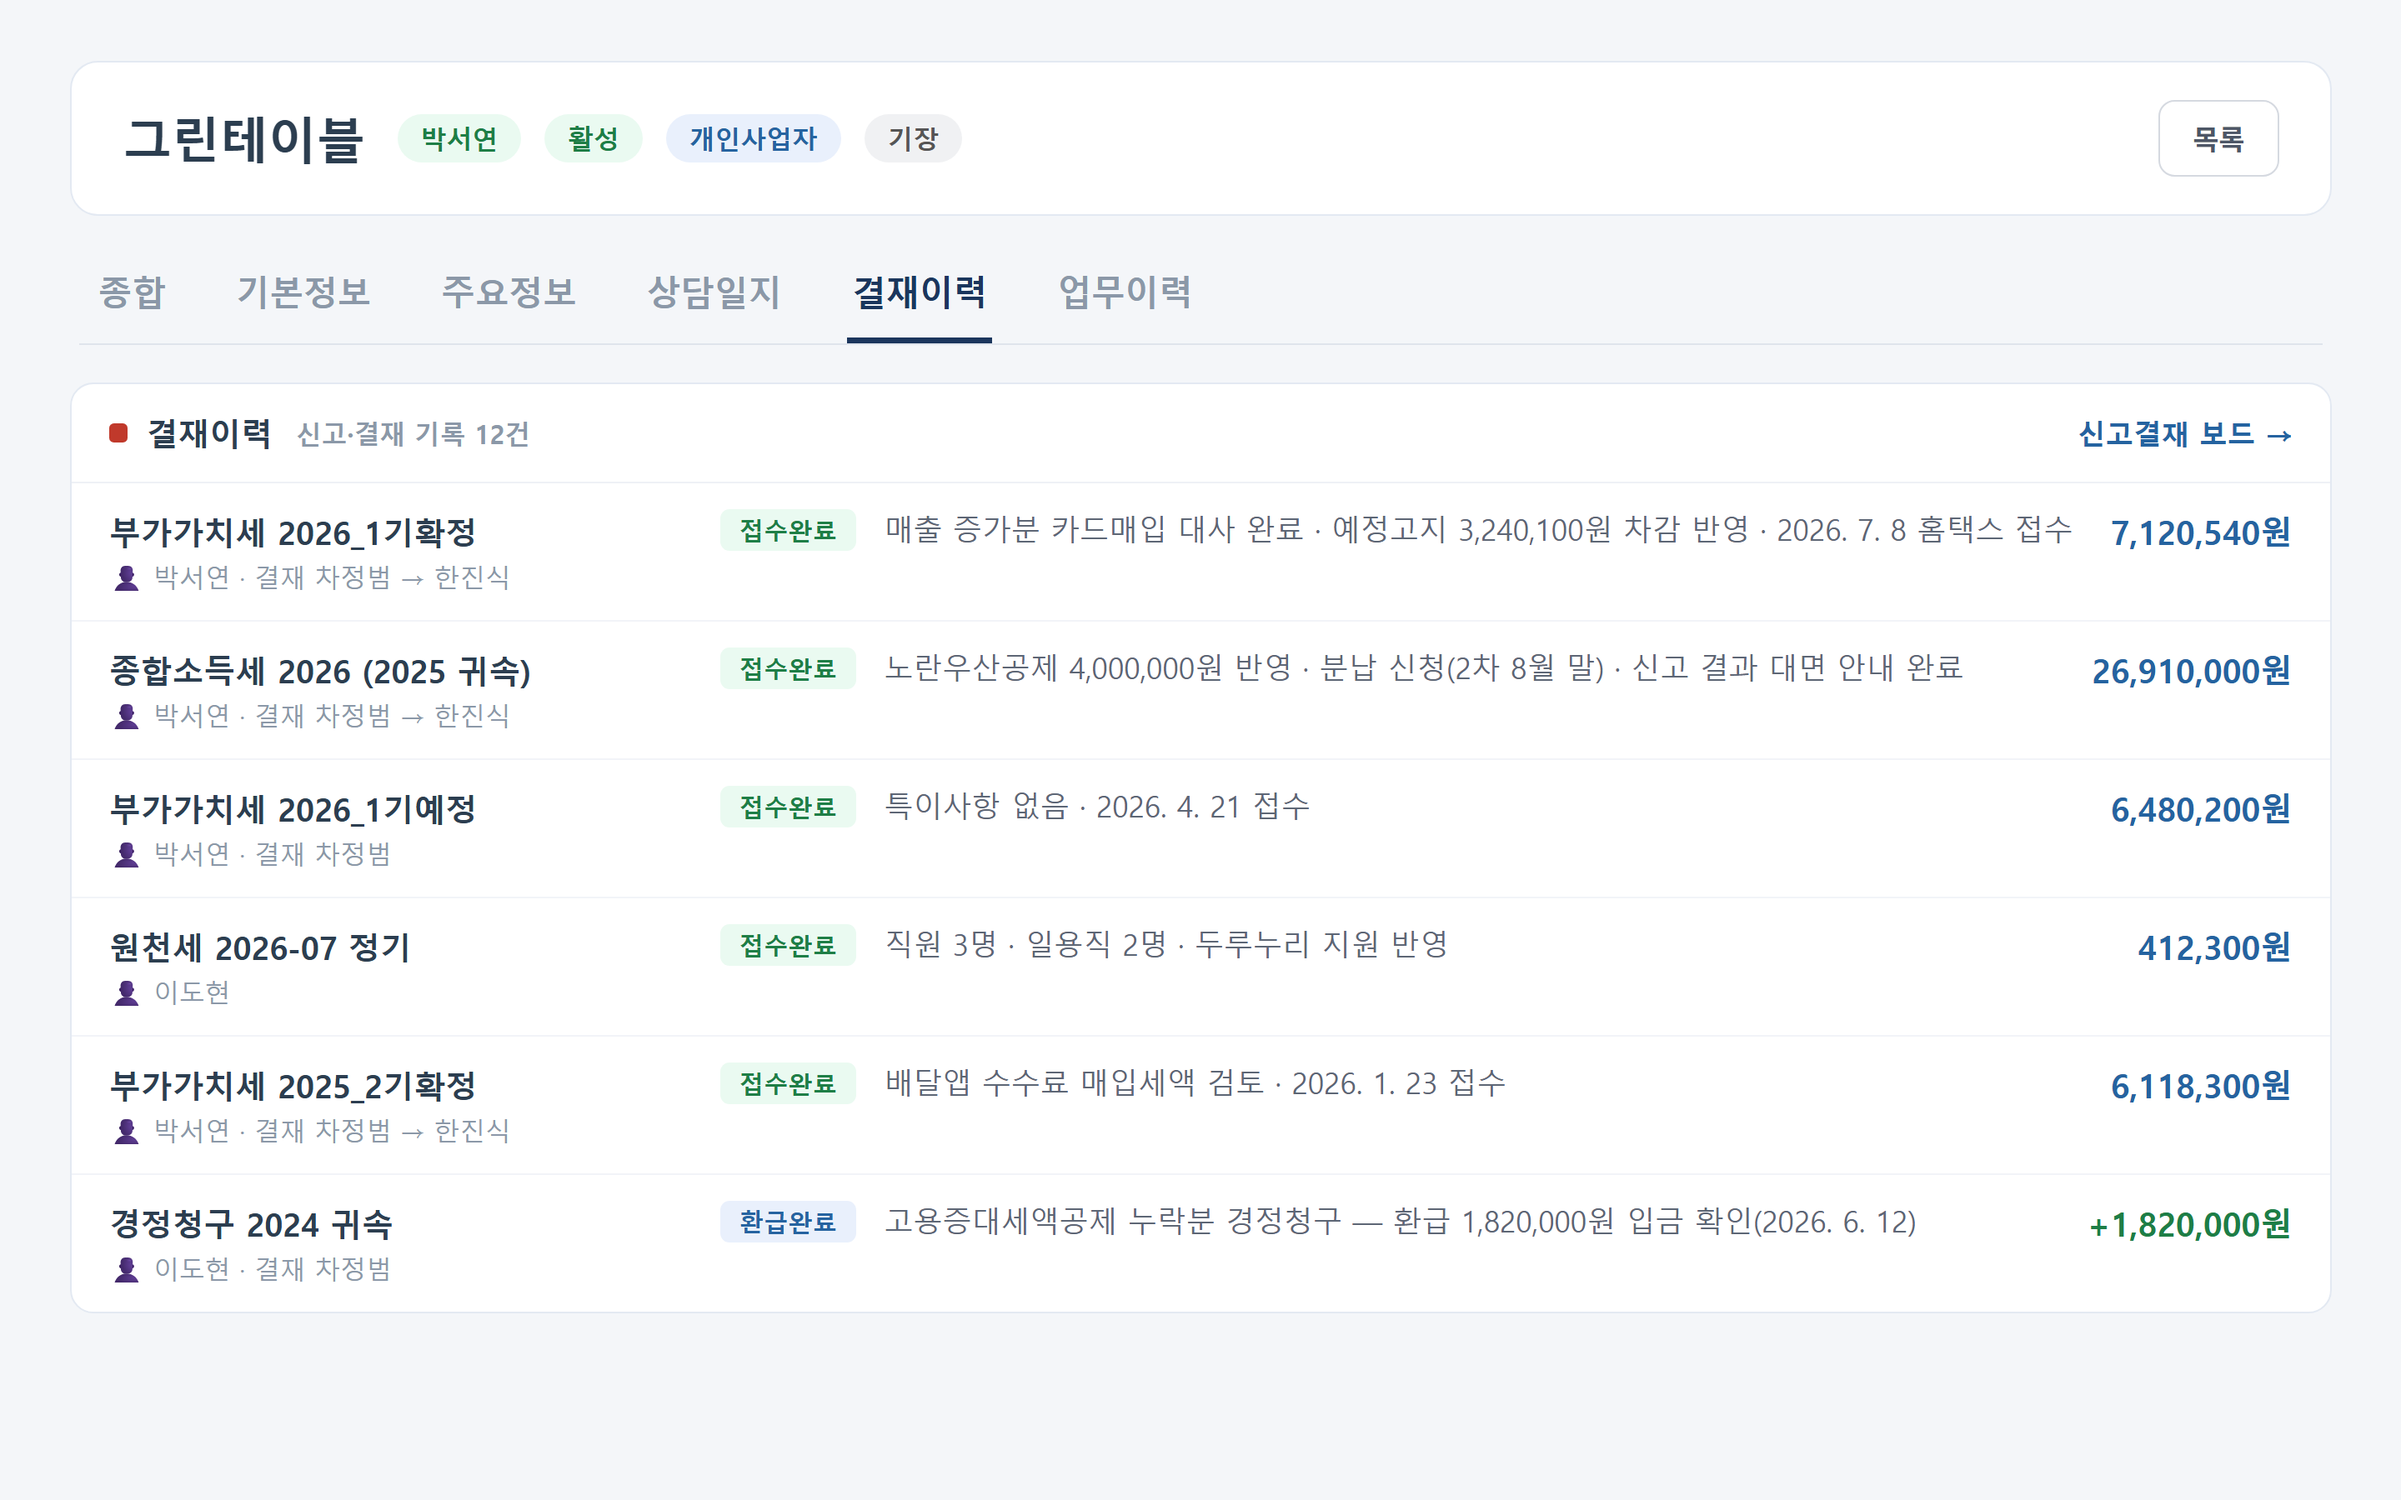
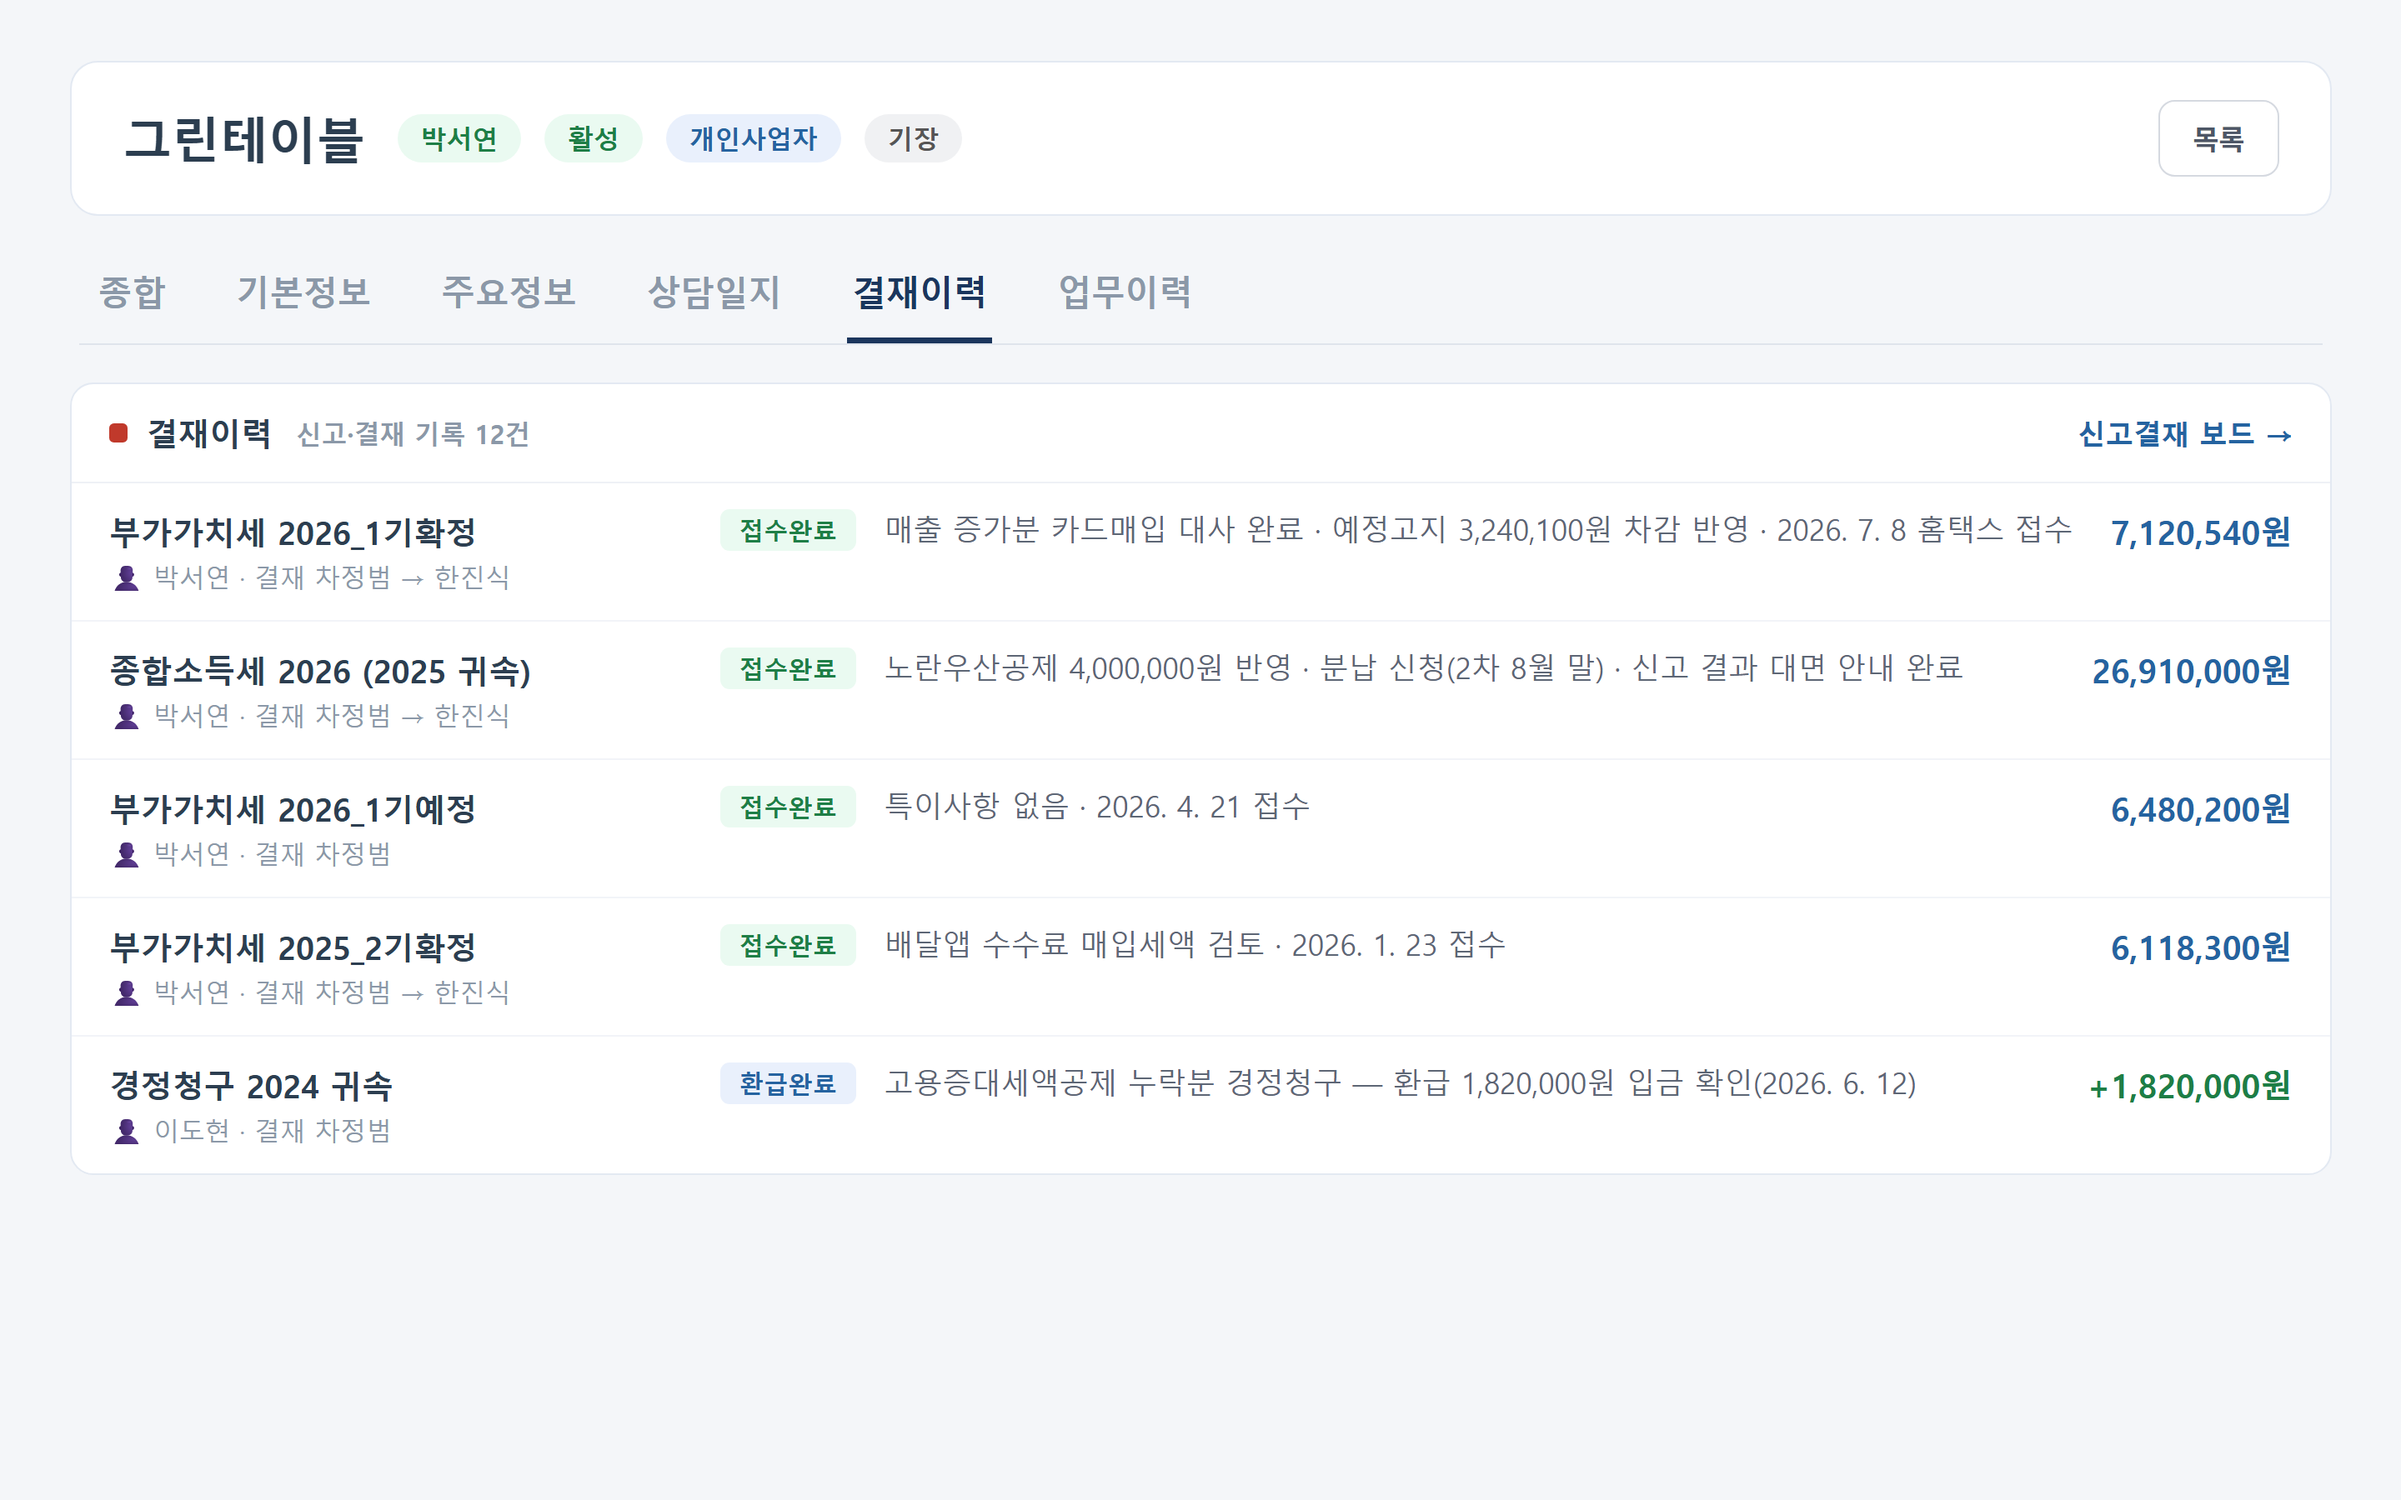
히어로 화면 3건 보정 — 노란우산 문구를 내년 예상 소득 기준 추가 공제 200만 원으로(한도 확대 표현 제거), 타임라인에 그린테이블 헤더·종합 탭 추가, 결재이력에서 원천세 행 삭제(원천세는 결재 대상 아님)

diff --git a/index.html b/index.html
@@ -80,19 +80,19 @@
       <div class="stack stack-prog" title="누르면 다음 화면이 보입니다">
         <div class="shot">
           <div class="shot-bar"><i></i><i></i><i></i><span>신고서 결재 이력</span></div>
-          <img src="assets/crm/crm_appr.png?v=2" alt="신고서 결재 이력 화면 — 부가세·종합소득세 신고마다 담당자와 세무사 2단계 결재 기록이 남는 화면" width="2880" height="1800">
+          <img src="assets/crm/crm_appr.png?v=3" alt="신고서 결재 이력 화면 — 부가세·종합소득세 신고마다 담당자와 세무사 2단계 결재 기록이 남는 화면" width="2880" height="1800">
         </div>
         <div class="shot">
           <div class="shot-bar"><i></i><i></i><i></i><span>활동 타임라인</span></div>
-          <img src="assets/hero/hero_timeline.png" alt="최근 활동 타임라인 화면 — 상담·업무·신고·입금 기록이 날짜순으로 통합되어 보이는 화면" width="2880" height="1800">
+          <img src="assets/hero/hero_timeline.png?v=2" alt="최근 활동 타임라인 화면 — 상담·업무·신고·입금 기록이 날짜순으로 통합되어 보이는 화면" width="2880" height="1800">
         </div>
         <div class="shot">
           <div class="shot-bar"><i></i><i></i><i></i><span>카카오톡 안내</span></div>
-          <img src="assets/hero/hero_kakao.png?v=2" alt="카카오톡 안내 화면 — 창업감면 종료와 노란우산공제 납입한도 확대를 담당자가 먼저 안내하는 대화" width="2880" height="1800">
+          <img src="assets/hero/hero_kakao.png?v=3" alt="카카오톡 안내 화면 — 창업감면 종료와 노란우산공제 추가 공제 여력을 담당자가 먼저 안내하는 대화" width="2880" height="1800">
         </div>
         <div class="shot">
           <div class="shot-bar"><i></i><i></i><i></i><span>사전알림</span></div>
-          <img src="assets/hero/hero_alert.png?v=2" alt="사전알림 화면 — 창업감면 종료, 노란우산공제 한도 확대, 통합고용세액공제, 부가세 예정고지 등 이 회사에 해당하는 점검 항목만 골라 보여주는 화면" width="2880" height="1800">
+          <img src="assets/hero/hero_alert.png?v=3" alt="사전알림 화면 — 창업감면 종료, 노란우산공제 추가 공제 여력, 통합고용세액공제, 부가세 예정고지 등 이 회사에 해당하는 점검 항목만 골라 보여주는 화면" width="2880" height="1800">
         </div>
       </div>
       <p class="shot-note">실제 프로그램 화면입니다 (예시 데이터) · 누르면 다음 화면이 보입니다</p>
